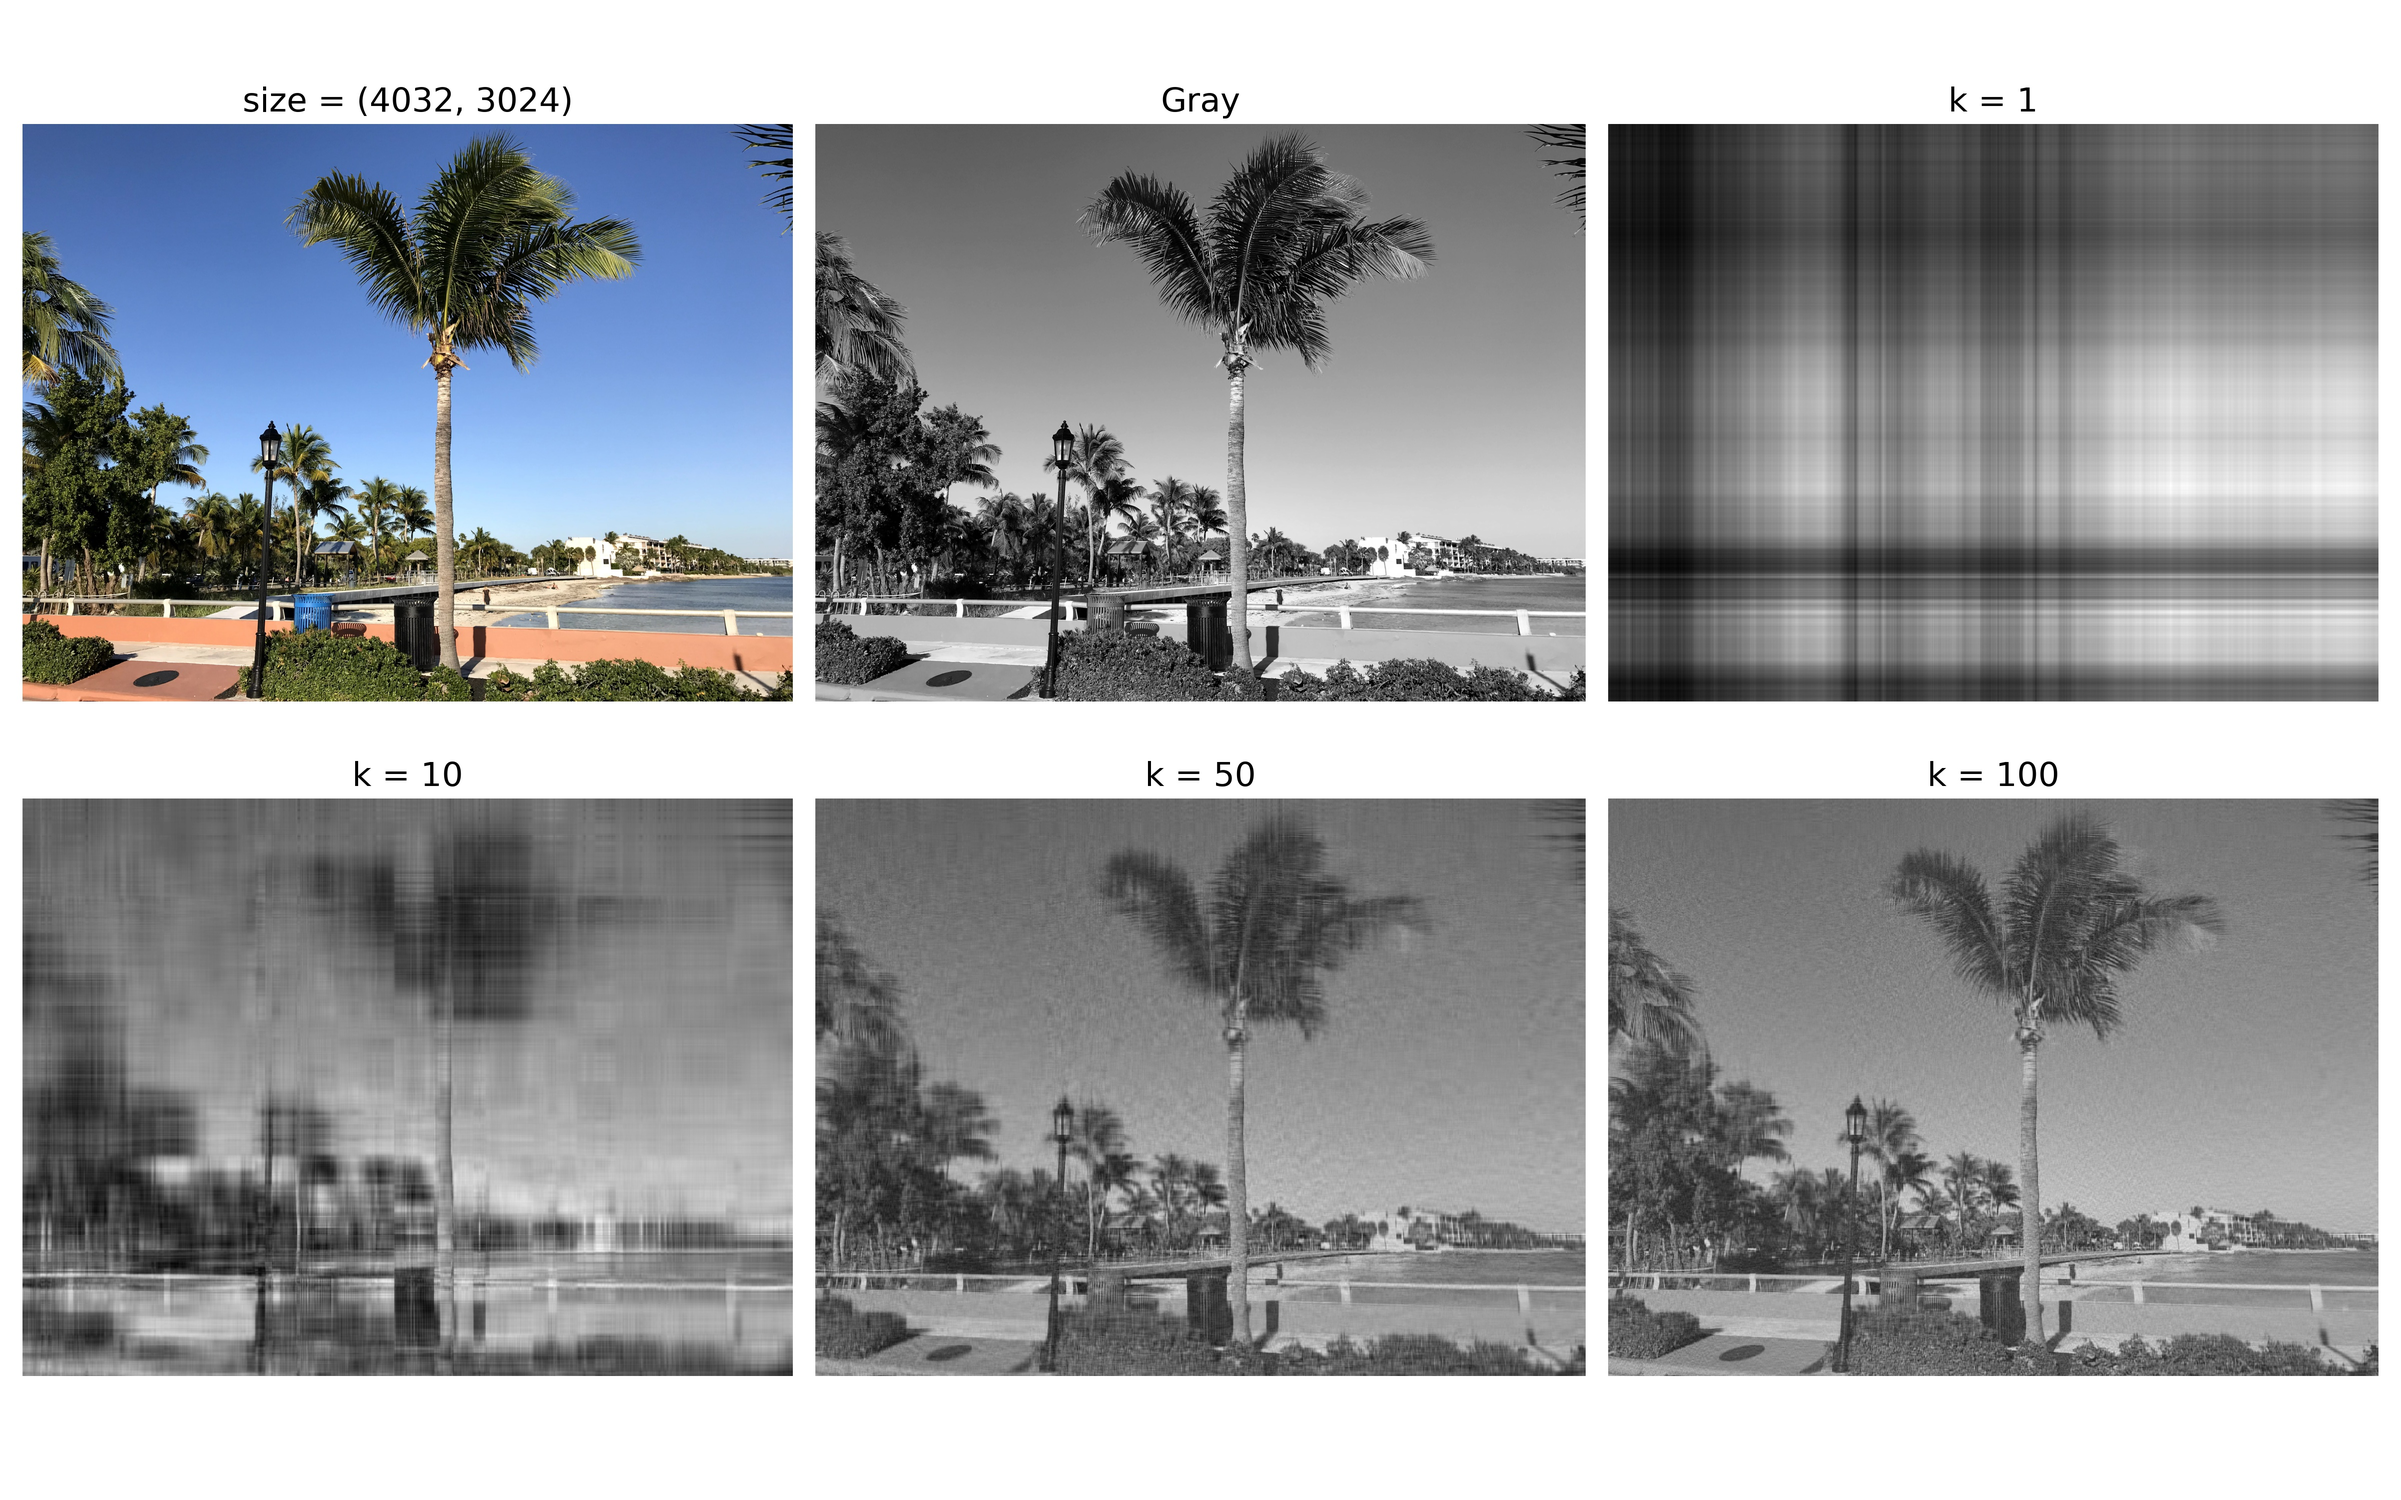
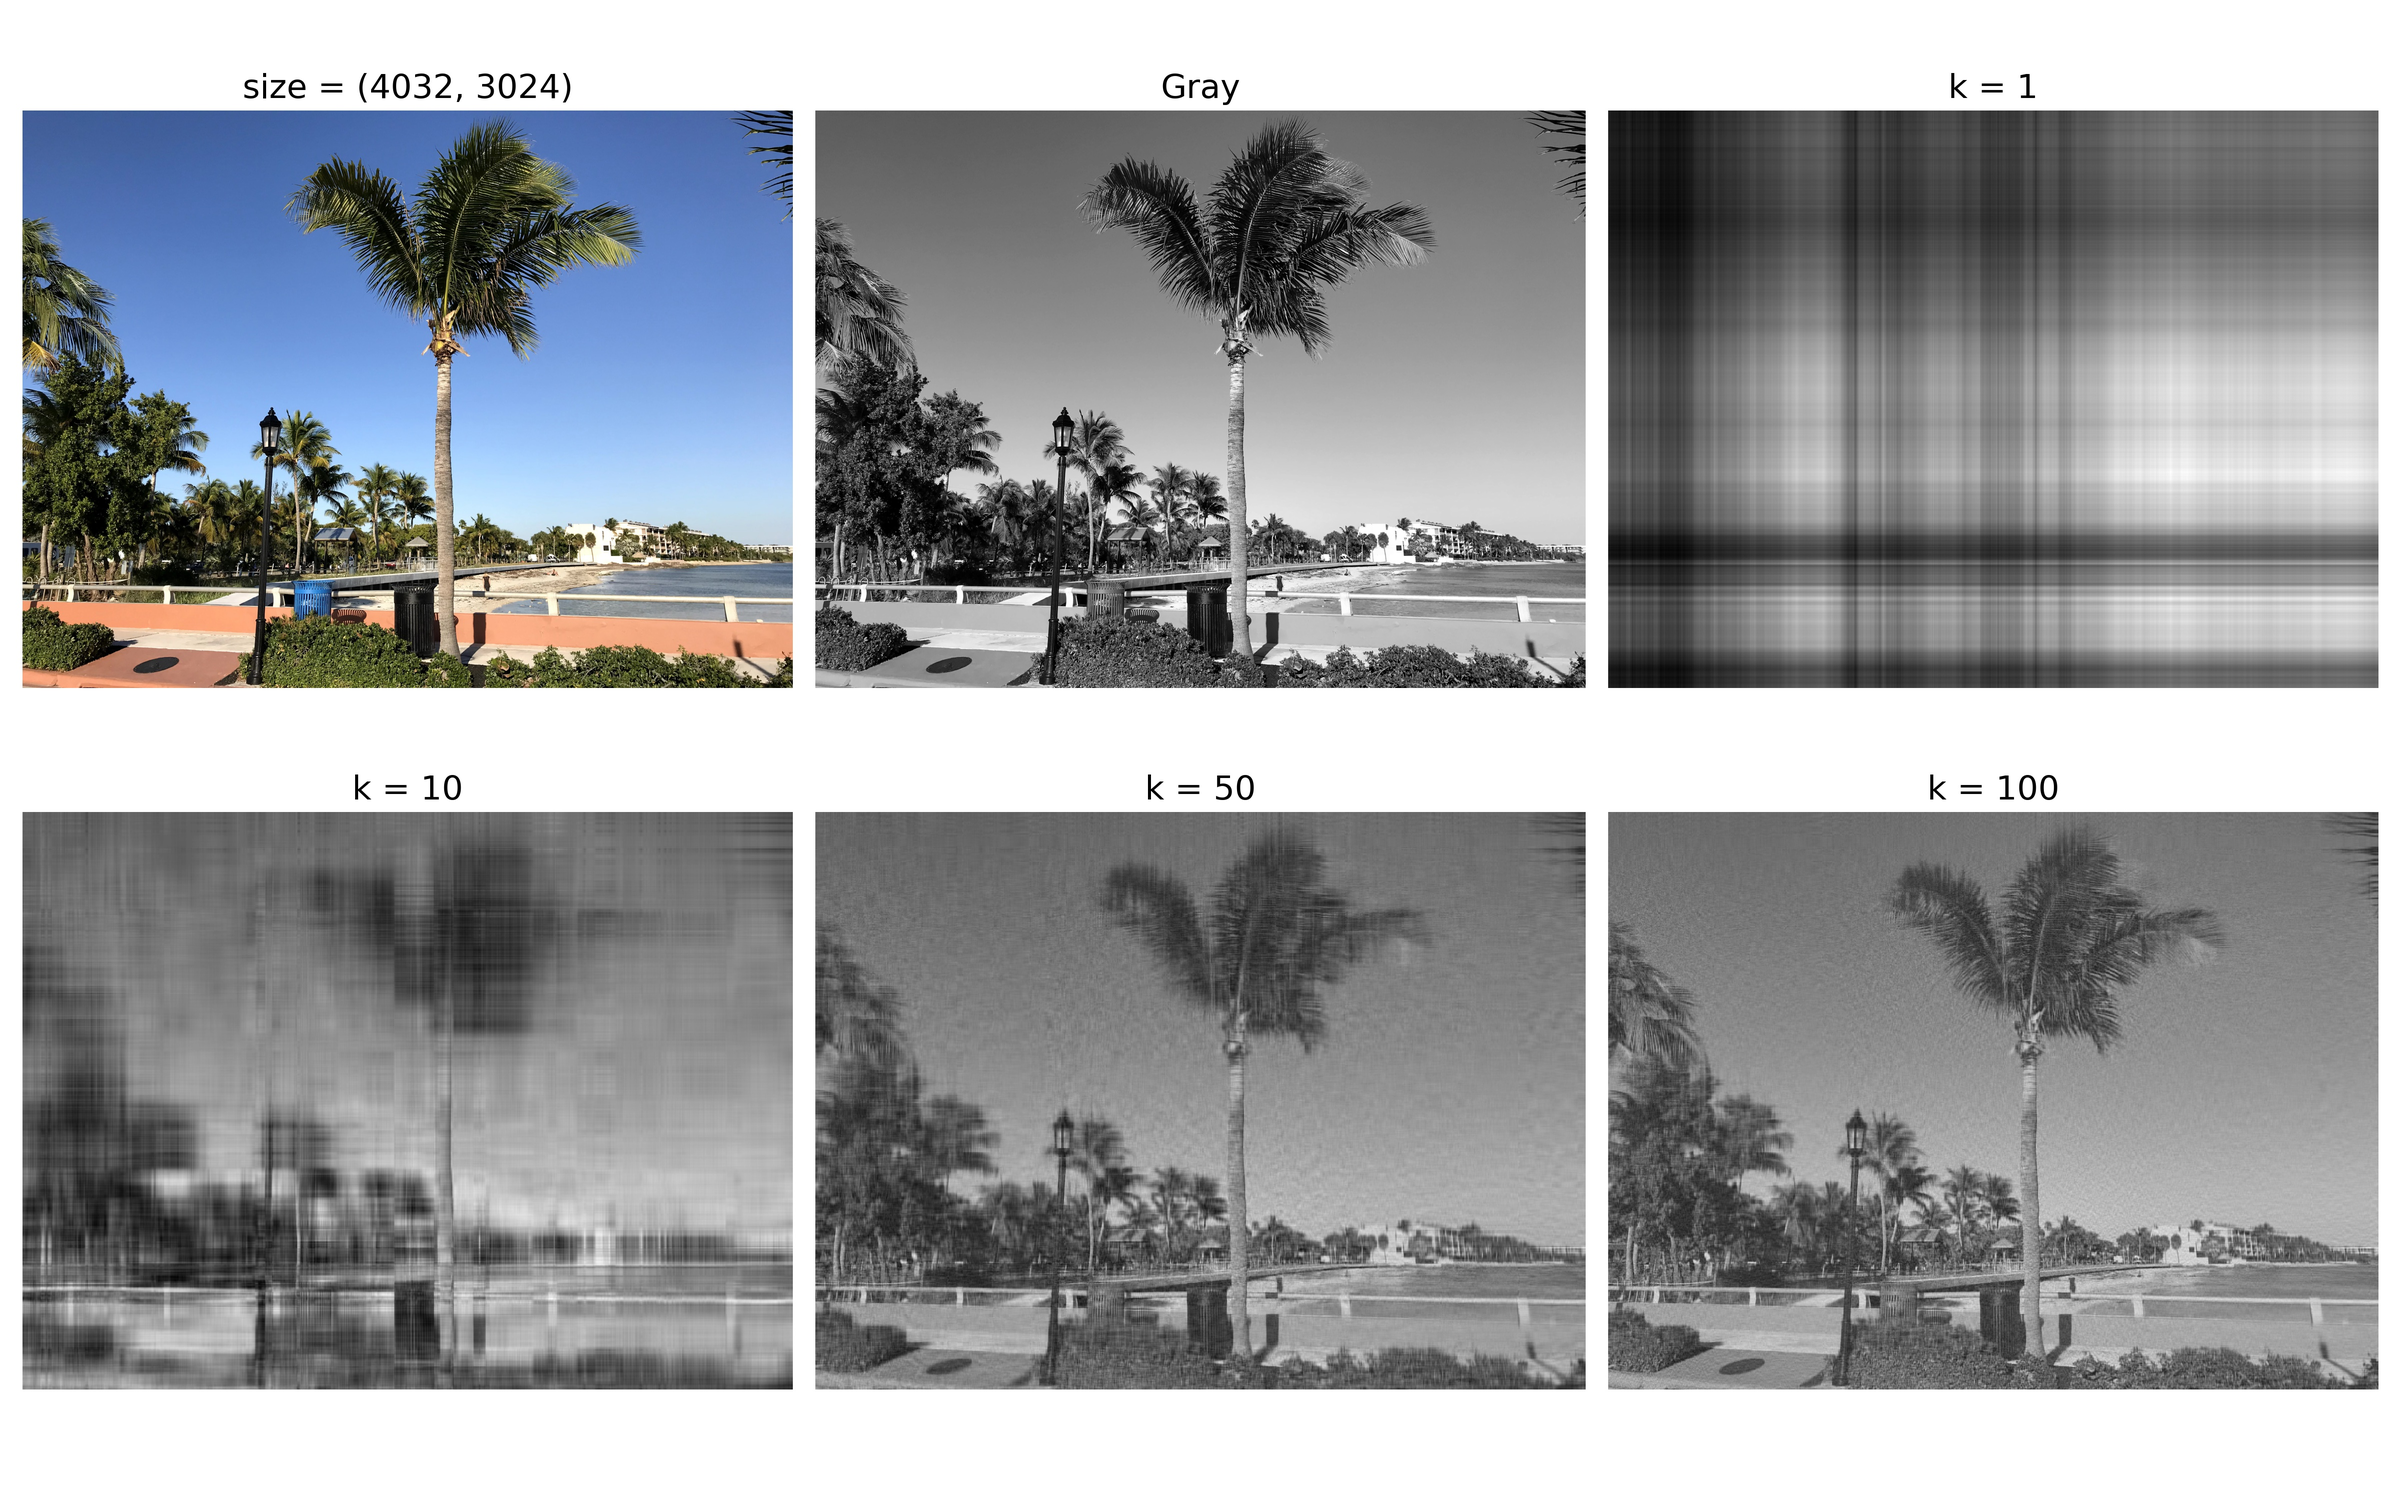
No need to use hspace=0.

diff --git a/image_compress.py b/image_compress.py
@@ -35,7 +35,7 @@ for k,ax in zip([1, 10, 50, 100], axs.flatten()[2:]):
     ax.set_title(title, size=16)
     ax.axis('off')
 
-fig.subplots_adjust(hspace=0)
+# fig.subplots_adjust(hspace=0)
 
 plt.tight_layout()
 plt.savefig('reconstructed_images_using_different_SVs.jpg', dpi=300)
